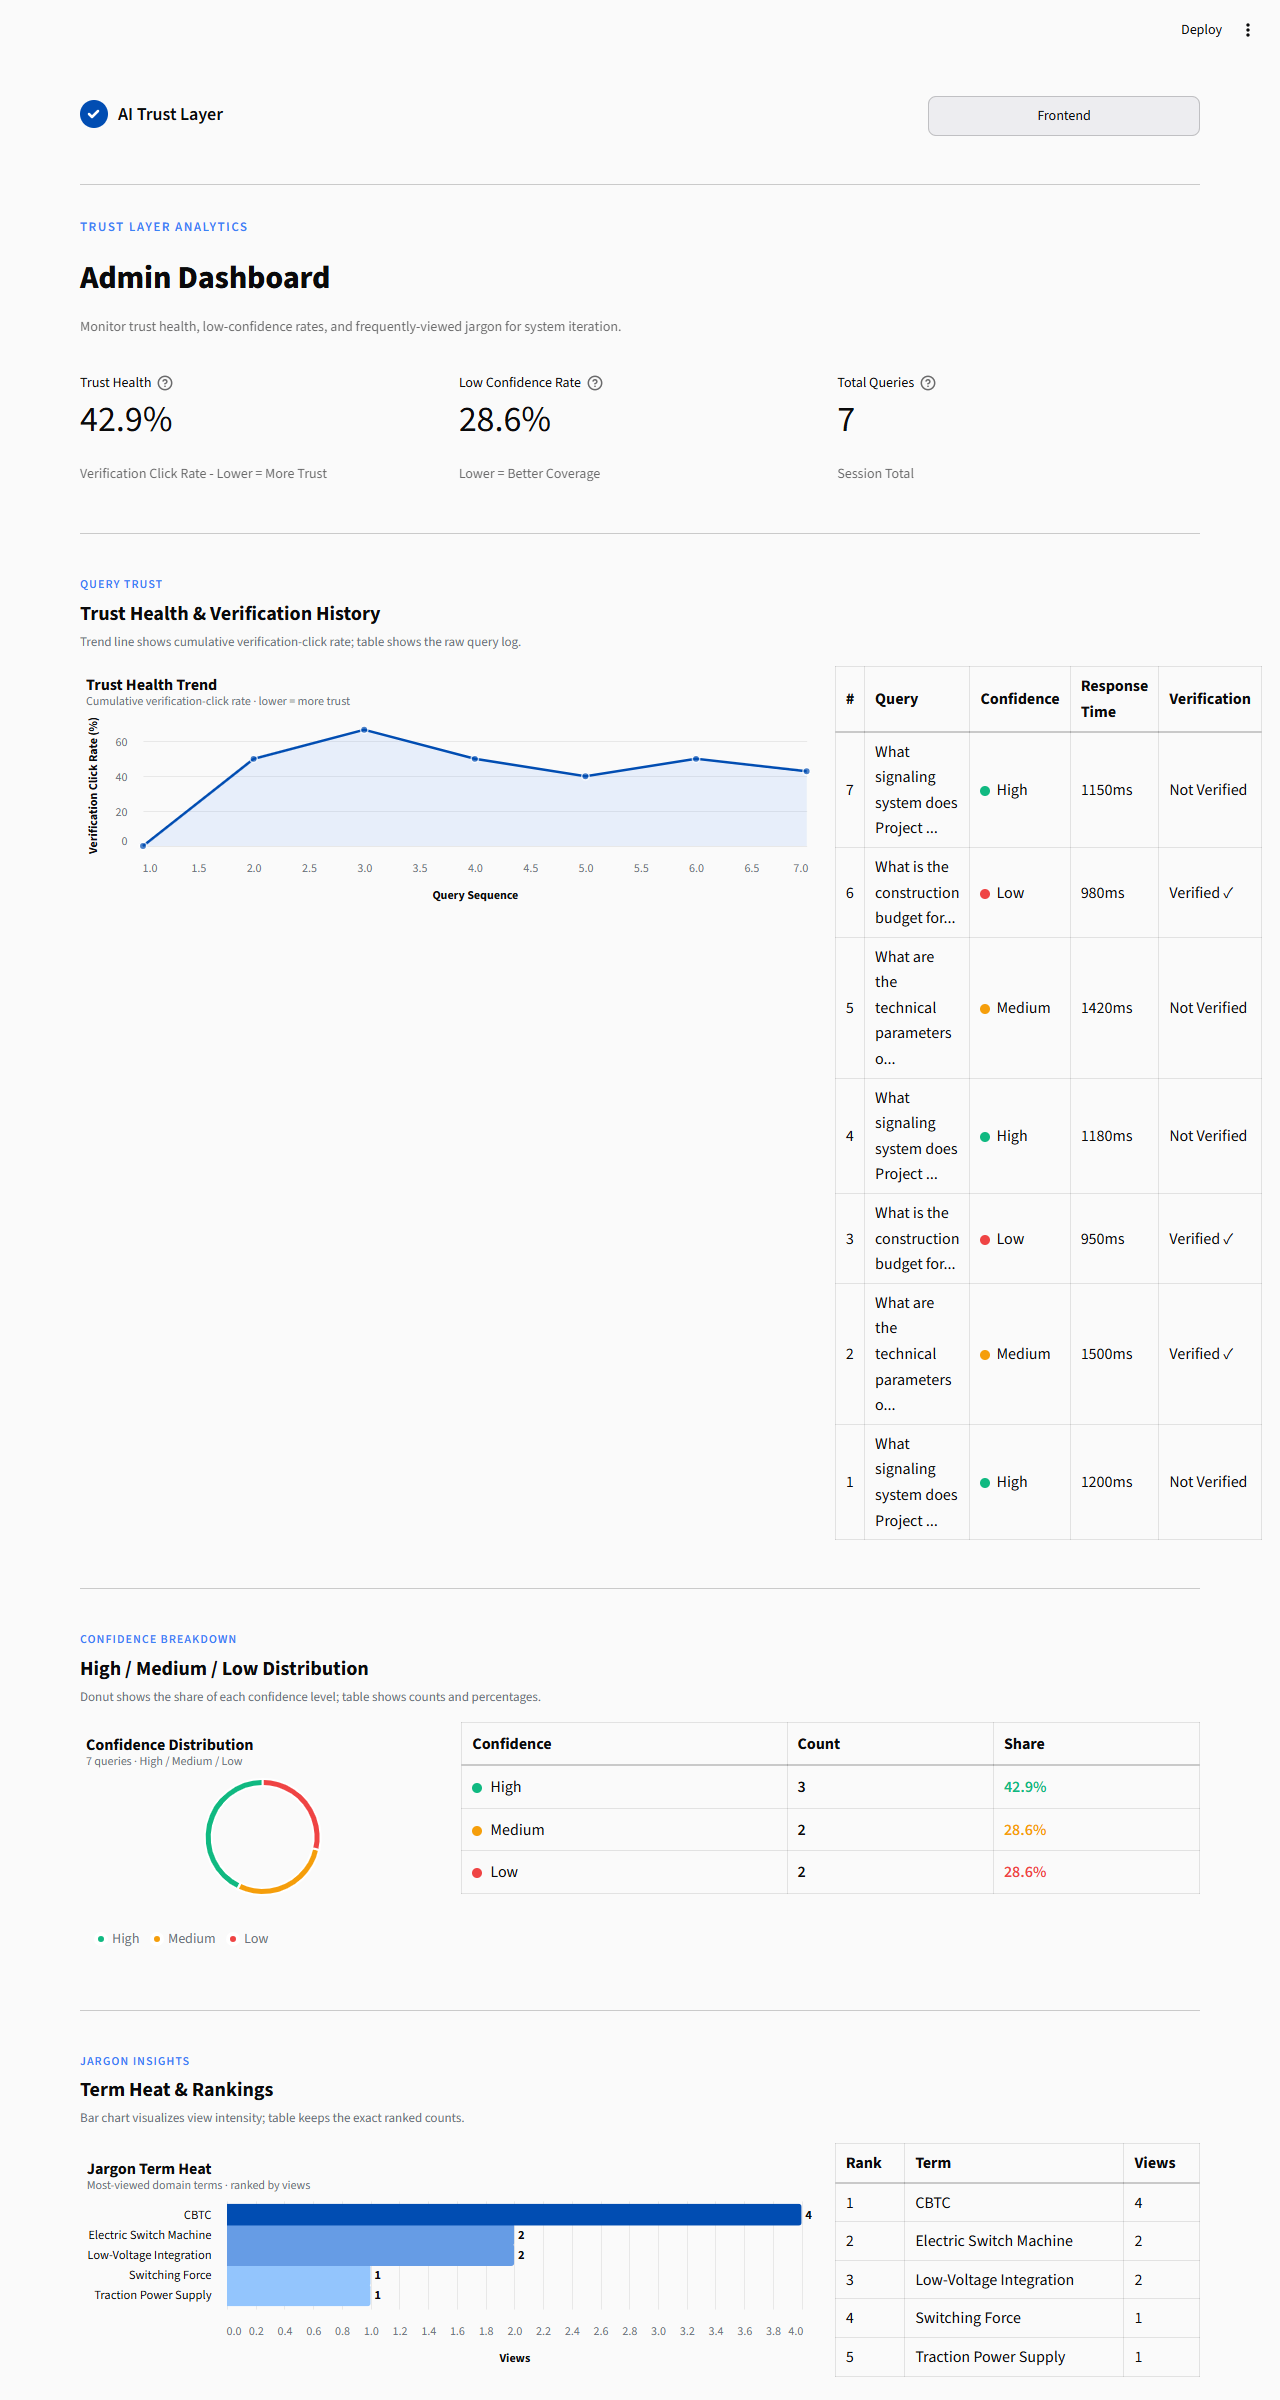
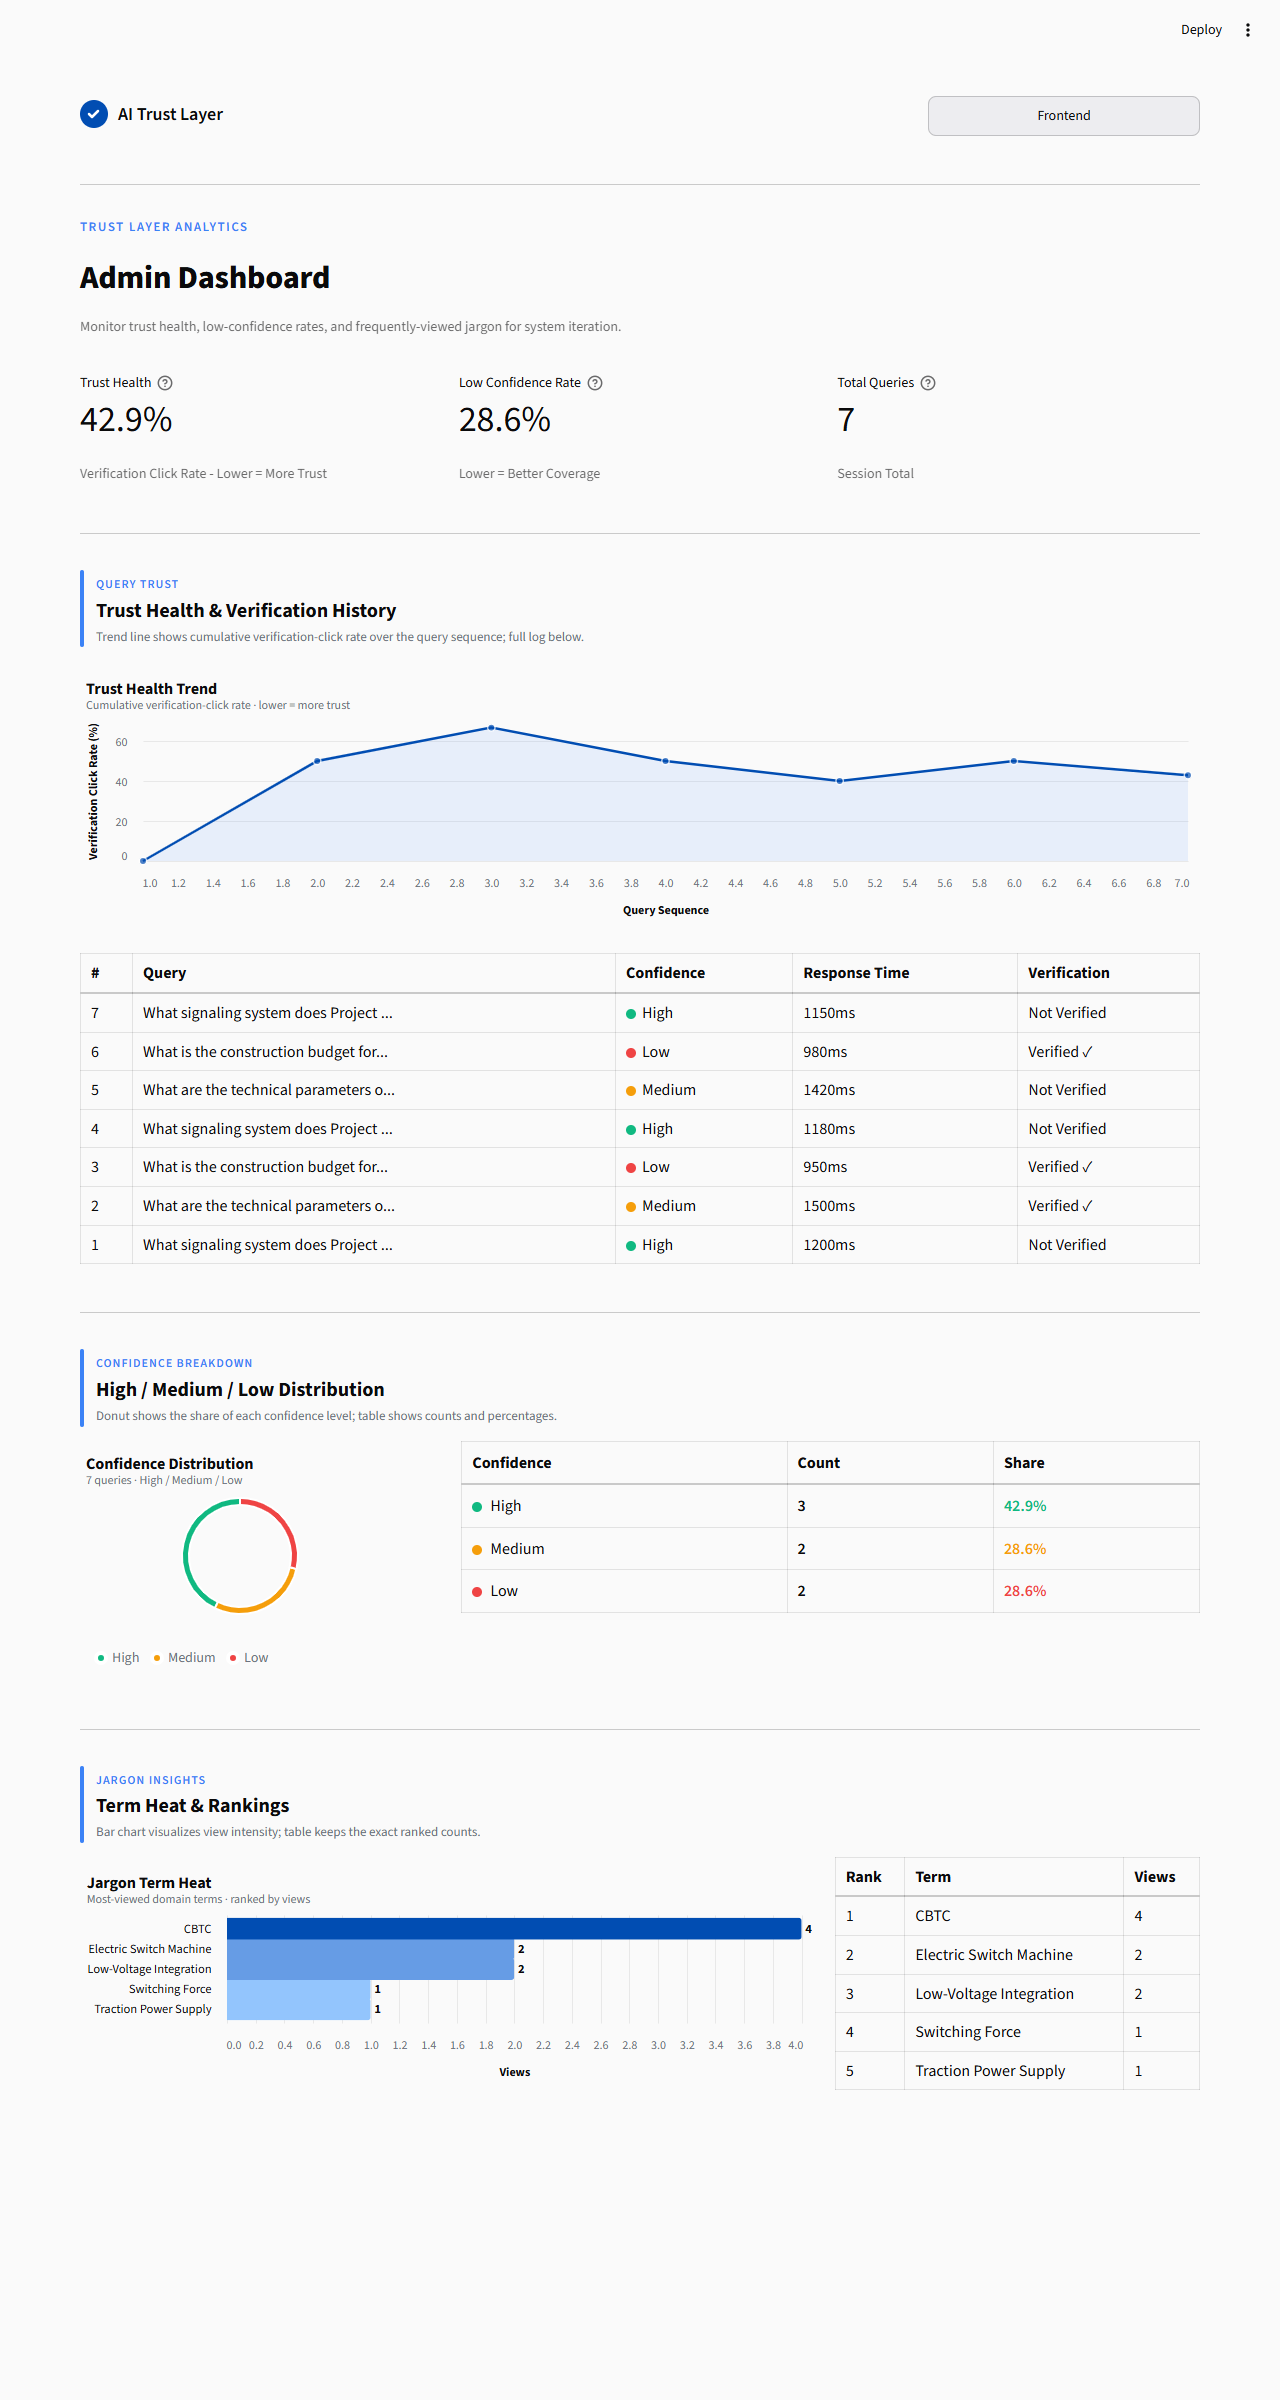
P1: admin layout refinements - full-width trend/table, left-aligned donut, blue section bars

diff --git a/ai_trust_layer/admin.py b/ai_trust_layer/admin.py
@@ -125,7 +125,7 @@ def _build_trend_chart(log: list):
         rows.append({"Query": i, "Trust Health (%)": round(cum_clicks / i * 100, 1)})
     df = pd.DataFrame(rows)
 
-    base = alt.Chart(df).properties(height=240)
+    base = alt.Chart(df).properties(height=260)
     area = base.mark_area(color=_LIGHT, opacity=0.10).encode(
         x=alt.X("Query:Q", title="Query Sequence", axis=alt.Axis(grid=False)),
         y=alt.Y("Trust Health (%):Q", title="Verification Click Rate (%)", scale=alt.Scale(0, 100)),
@@ -168,6 +168,7 @@ def _build_confidence_donut(log: list):
             tooltip=["level", "count"],
         )
         .properties(
+            width=320,
             height=240,
             title=alt.TitleParams(
                 text="Confidence Distribution",
@@ -235,31 +236,31 @@ def _build_jargon_bar(top_jargon: list):
 # ---------------------------------------------------------------------------
 
 def _section_header(eyebrow: str, title: str, subtitle: str = ""):
-    """Reusable section eyebrow + title in P0 design language."""
+    """Reusable section eyebrow + title with a blue vertical accent bar (P0 design language)."""
     html = (
-        '<div style="margin:4px 0 14px 0;">'
+        '<div style="display:flex; align-items:stretch; margin:4px 0 14px 0;">'
+        '<div style="width:4px; background:#3B82F6; border-radius:2px; margin-right:12px; flex:0 0 auto;"></div>'
+        '<div style="flex:1 1 auto;">'
         f'<span style="color:#3B82F6; font-size:12px; font-weight:600; letter-spacing:1px;">{eyebrow}</span>'
-        f'<div style="color:#0A0A0B; font-size:20px; font-weight:700; margin-top:2px;">{title}</div>'
+        f'<div style="color:#0A0A0B; font-size:20px; font-weight:700; margin-top:2px; line-height:1.25;">{title}</div>'
     )
     if subtitle:
-        html += f'<div style="color:#6B7280; font-size:13px; margin-top:2px;">{subtitle}</div>'
-    html += "</div>"
+        html += f'<div style="color:#6B7280; font-size:13px; margin-top:4px;">{subtitle}</div>'
+    html += "</div></div>"
     st.markdown(html, unsafe_allow_html=True)
 
 
 def render_section_query_trust(log: list, metrics: dict):
-    """Trust Health trend chart + raw recent query history (side by side)."""
+    """Trust Health trend chart (full width) + raw recent query history (full width, below)."""
     _section_header(
         eyebrow="QUERY TRUST",
         title="Trust Health & Verification History",
-        subtitle="Trend line shows cumulative verification-click rate; table shows the raw query log.",
+        subtitle="Trend line shows cumulative verification-click rate over the query sequence; full log below.",
     )
 
-    col_chart, col_table = st.columns([2, 1])
-    with col_chart:
-        st.altair_chart(_build_trend_chart(log), use_container_width=True)
-    with col_table:
-        render_recent_queries(metrics["recent_queries"])
+    st.altair_chart(_build_trend_chart(log), use_container_width=True)
+    st.markdown('<div style="height:4px;"></div>', unsafe_allow_html=True)
+    render_recent_queries(metrics["recent_queries"])
 
 
 def render_section_confidence(log: list, metrics: dict):
@@ -272,7 +273,7 @@ def render_section_confidence(log: list, metrics: dict):
 
     col_chart, col_table = st.columns([1, 2])
     with col_chart:
-        st.altair_chart(_build_confidence_donut(log), use_container_width=True)
+        st.altair_chart(_build_confidence_donut(log), use_container_width=False)
     with col_table:
         render_confidence_breakdown(log, metrics)
 
